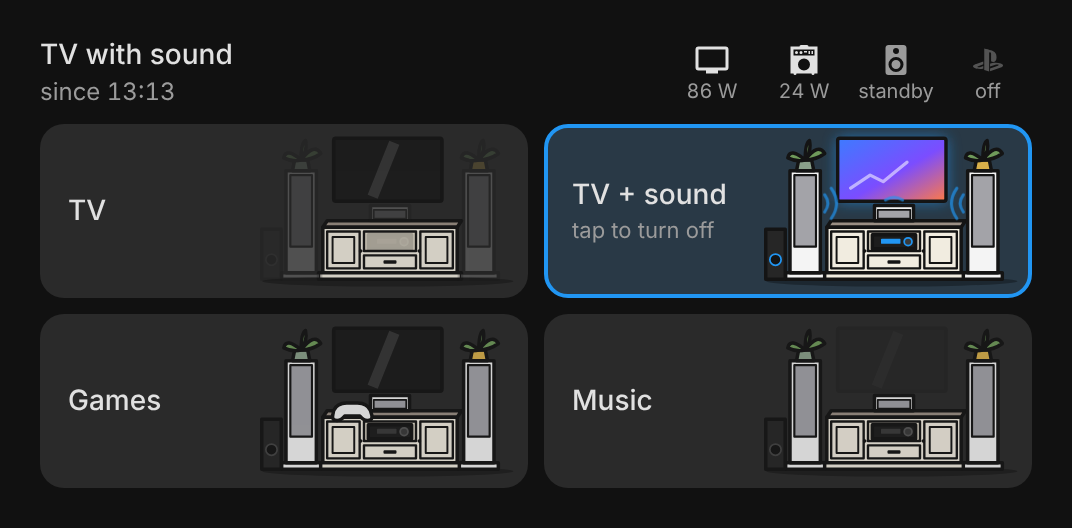
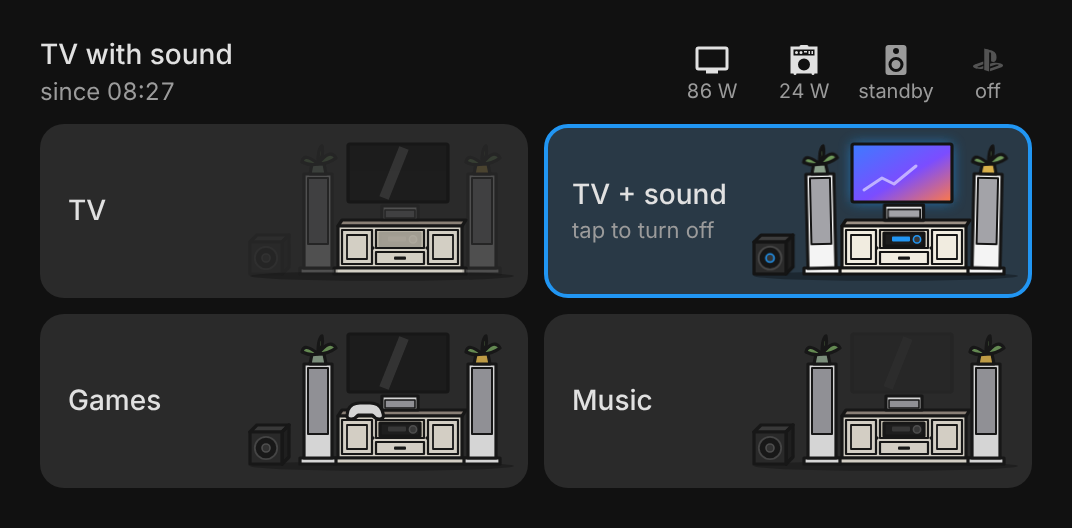
v0.1.1: subwoofer on the floor, speakers move while playing
Claude-Session: https://claude.ai/code/session_017BEvUrExFR7bb8ADUjAeSX

diff --git a/media-wall-card.js b/media-wall-card.js
@@ -16,7 +16,7 @@
 // Everything sits in one block so the top-level names cannot clash with the
 // sister cards when the files are loaded as classic scripts.
 {
-const VERSION = "0.1.0";
+const VERSION = "0.1.1";
 
 const MW_GRACE_MS = 5000; // plugs may lag the mode this long before a mismatch shows
 const MW_FAIL_MS = 6000; // "Music: no response" shows this long
@@ -73,7 +73,7 @@ let mwUid = 0;
  * The owner's media wall as SVG markup, 118 x 72: wall mounted TV, cream
  * cabinet with a grey top, panel doors and the receiver in the open shelf,
  * centre speaker on top, two white towers with grey grilles and plants, the
- * sub at the far left. o = { tv, amp, sub, ps, lit, uid }: the devices this
+ * sub as a black cube on the floor at the far left. o = { tv, amp, sub, ps, lit, uid }: the devices this
  * mode uses are drawn in full, the others ghosted; lit = the mode is active
  * (or being switched to), so its devices light up in the active colour.
  */
@@ -82,14 +82,13 @@ function mwScene(o) {
   const C = "var(--mw-c)";
   const lit = o.lit;
   const part = (on, body) => `<g opacity="${on ? 1 : 0.22}">${body}</g>`;
-  const waves = (x, y, s) => (lit ? `<g class="wave" style="stroke:${C}" fill="none" stroke-width="1.4" stroke-linecap="round">
-    <path d="M${x} ${y - 4} q${3 * s} 4 0 8"/><path d="M${x + 3 * s} ${y - 7} q${5 * s} 7 0 14"/></g>` : "");
-  const tower = (x, pot) => `<g ${K}>
-    <rect x="${x - 2}" y="64" width="18" height="3" fill="#f4f4f4"/>
+  /* A tower: the plinth stays on the floor, the body (with the plant) sways from its foot while it plays. */
+  const tower = (x, pot, sway) => `<g ${K}><rect x="${x - 2}" y="64" width="18" height="3" fill="#f4f4f4"/></g>
+    <g class="${sway}"><g ${K}>
     <rect x="${x}" y="17" width="14" height="47" fill="#f4f4f4"/>
     <rect x="${x + 2}" y="19" width="10" height="33" fill="#a3a3a8" stroke-width="1"/></g>
     <g ${K} stroke-width="1.2"><path d="M${x + 3} 17 l1 -5 h6 l1 5 z" fill="${pot}"/>
-    <path d="M${x + 7} 12 q-7 -6 -8 -1 q4 2 8 1 z M${x + 7} 12 q6 -8 9 -3 q-4 3 -9 3 z M${x + 7} 12 q0 -8 2 -9 q1 5 -2 9 z" fill="#6f9a5a"/></g>`;
+    <path d="M${x + 7} 12 q-7 -6 -8 -1 q4 2 8 1 z M${x + 7} 12 q6 -8 9 -3 q-4 3 -9 3 z M${x + 7} 12 q0 -8 2 -9 q1 5 -2 9 z" fill="#6f9a5a"/></g></g>`;
   const id = `mw${o.uid}`;
   const tvLit = lit && o.tv;
   const tv = `<defs><linearGradient id="${id}g" x1="0" y1="0" x2="1" y2="1">
@@ -113,21 +112,25 @@ function mwScene(o) {
   const avr = `<g ${K} stroke-width="1.1"><rect x="50" y="46.5" width="20" height="6.5" fill="#1d1d1d"/></g>
     <rect x="54" y="48.3" width="9" height="2.4" rx=".4" style="fill:${ampLit ? C : "#3a3a3a"}"/>
     <circle cx="66.5" cy="49.7" r="1.8" fill="#3a3a3a" style="stroke:${ampLit ? C : "#555"}" stroke-width=".8"/>`;
-  const center = `<g ${K}><rect x="51" y="33" width="18" height="7" fill="#f4f4f4"/>
-    <rect x="52.5" y="35" width="15" height="4" fill="#a3a3a8" stroke-width=".8"/></g>
-    ${ampLit ? `<path class="wave" d="M56 30.5 q4 -2.5 8 0" fill="none" style="stroke:${C}" stroke-width="1.3" stroke-linecap="round"/>` : ""}`;
-  const towers = tower(12, "#8aa08a") + tower(94, "#d9b04a") + (ampLit ? waves(28, 32, 1) + waves(92, 32, -1) : "");
+  const center = `<g class="${ampLit ? "pump" : ""}"><g ${K}><rect x="51" y="33" width="18" height="7" fill="#f4f4f4"/>
+    <rect x="52.5" y="35" width="15" height="4" fill="#a3a3a8" stroke-width=".8"/></g></g>`;
+  const towers = tower(12, "#8aa08a", ampLit ? "sway l" : "") + tower(94, "#d9b04a", ampLit ? "sway r" : "");
   const subLit = lit && o.sub;
-  const sub = `<g ${K}><rect x="0.8" y="44" width="9" height="23" fill="#262626"/></g>
-    <circle cx="5.3" cy="58" r="2.6" fill="#141414" style="stroke:${subLit ? C : "#444"}" stroke-width=".8"/>`;
+  // The sub stands on the floor at the far left (outside the shifted scene), a black cube with a front driver.
+  const sub = `<g class="${subLit ? "jump" : ""}"><g ${K}>
+      <polygon points="1,51 17,51 20.5,47.5 4.5,47.5" fill="#3d3d3d"/>
+      <polygon points="17,51 20.5,47.5 20.5,63.5 17,67" fill="#1e1e1e"/>
+      <rect x="1" y="51" width="16" height="16" fill="#2a2a2a"/></g>
+      <g class="${subLit ? "cone" : ""}"><circle cx="9" cy="59" r="5.6" fill="#161616" stroke="#4a4a4a" stroke-width=".9"/>
+      <circle cx="9" cy="59" r="2" fill="#333" style="stroke:${subLit ? C : "#555"}" stroke-width=".8"/></g></g>`;
   const pad = o.ps ? `<g ${K} stroke-width="1.1"><path d="M34 40 q1.5 -3.5 6 -3.5 h5 q4.5 0 6 3.5 l.6 2 q.6 2.5 -2 2.5 q-2 0 -3.5 -2 h-7 q-1.5 2 -3.5 2 q-2.6 0 -2 -2.5 z" fill="#f4f4f4"/></g>
     ${lit ? `<rect x="40.5" y="37.5" width="4" height="1.2" rx=".6" style="fill:${C}"/>` : ""}` : "";
   const notes = ampLit && !o.tv ? `<g class="notes" style="fill:${C};stroke:${C}" stroke-width="1.4" stroke-linecap="round">
     <ellipse cx="50" cy="18" rx="2.6" ry="2" stroke="none"/><path d="M52.6 18 V7 l5 1.8" fill="none"/>
     <ellipse cx="65" cy="14" rx="2.3" ry="1.8" stroke="none"/><path d="M67.3 14 V4" fill="none"/></g>` : "";
-  return `<svg viewBox="0 0 118 72" xmlns="http://www.w3.org/2000/svg" aria-hidden="true">
-    <ellipse cx="59" cy="68" rx="58" ry="2.4" fill="#000" opacity=".3"/>
-    ${part(o.tv, tv)}${cabinet}${part(o.amp, avr)}${part(o.amp, center)}${part(o.amp, towers)}${part(o.sub, sub)}${pad}${notes}</svg>`;
+  return `<svg viewBox="0 0 134 72" xmlns="http://www.w3.org/2000/svg" aria-hidden="true">
+    <ellipse cx="67" cy="68" rx="66" ry="2.4" fill="#000" opacity=".3"/>
+    ${part(o.sub, sub)}<g transform="translate(16 0)">${part(o.tv, tv)}${cabinet}${part(o.amp, avr)}${part(o.amp, center)}${part(o.amp, towers)}${pad}${notes}</g></svg>`;
 }
 
 /* ------------------------------------------------------------------------ */
@@ -187,7 +190,7 @@ ${Object.values(MW_COLORS).map(([v, d]) => `    ${v}: ${d};`).join("\n")}
   .btn.act .tx b ha-icon, .btn.busy .tx b ha-icon { color: var(--mw-c); }
   .tx small { font-size: 11px; line-height: 13px; color: var(--secondary-text-color); white-space: nowrap; overflow: hidden; text-overflow: ellipsis; }
   .tx small:empty { display: none; }
-  .art { flex: none; align-self: center; height: min(100%, 78px); aspect-ratio: 118 / 72; padding-right: 4px; }
+  .art { flex: none; align-self: center; height: min(100%, 72px); aspect-ratio: 134 / 72; padding-right: 4px; }
   .art svg { width: 100%; height: 100%; display: block; overflow: visible; }
   .btn:not(.act):not(.busy) .art { opacity: .85; }
   .nopic .art { display: none; }
@@ -202,11 +205,23 @@ ${Object.values(MW_COLORS).map(([v, d]) => `    ${v}: ${d};`).join("\n")}
   }
   @container (max-height: 63px) and (max-width: 199px) { .art { display: none; } .tx { position: static; justify-content: center; } }
 
-  .wave { animation: mw-wave 1.6s ease-in-out infinite; }
-  @keyframes mw-wave { 50% { opacity: .35; } }
+  /* sound: the towers sway from their foot, the centre speaker leans in and out, the sub hops and its driver pumps, notes rise */
+  .sway { transform-box: fill-box; transform-origin: 50% 100%; animation: 1.4s ease-in-out infinite alternate; }
+  .sway.l { animation-name: mw-sway-l; }
+  .sway.r { animation-name: mw-sway-r; }
+  @keyframes mw-sway-l { from { transform: rotate(-2.2deg); } to { transform: rotate(2.2deg); } }
+  @keyframes mw-sway-r { from { transform: rotate(2.2deg); } to { transform: rotate(-2.2deg); } }
+  .pump { transform-box: fill-box; transform-origin: 50% 100%; animation: mw-pump .6s ease-in-out infinite alternate; }
+  @keyframes mw-pump { to { transform: scale(1.09); } }
+  .jump { transform-box: fill-box; transform-origin: 50% 100%; animation: mw-jump .5s ease-out infinite; }
+  @keyframes mw-jump { 0%, 45%, 100% { transform: translateY(0) scaleY(1); } 12% { transform: translateY(-1.3px) scaleY(1.02); } 28% { transform: translateY(0) scaleY(.97); } }
+  .cone { transform-box: fill-box; transform-origin: 50% 50%; animation: mw-cone .25s ease-in-out infinite alternate; }
+  @keyframes mw-cone { to { transform: scale(1.12); } }
+  .notes { animation: mw-notes 2.4s ease-in-out infinite; }
+  @keyframes mw-notes { 0% { transform: translateY(2px); opacity: .4; } 50% { opacity: 1; } 100% { transform: translateY(-2px); opacity: .4; } }
   @keyframes mw-pulse { 50% { opacity: .45; } }
   @media (prefers-reduced-motion: reduce) {
-    .wave, .btn.busy .tx small, .pw.busy { animation: none !important; }
+    .sway, .pump, .jump, .cone, .notes, .btn.busy .tx small, .pw.busy { animation: none !important; }
   }
 `;
 

diff --git a/tests/media-wall-card.test.js b/tests/media-wall-card.test.js
@@ -257,6 +257,16 @@ test("drawing: the mode's devices in full, the rest ghosted; lit only when activ
   assert(!render(states(), { picture: false })._el.btns[0].art.innerHTML);
 });
 
+test("motion only where the active mode plays sound", () => {
+  clock = NOW;
+  let art = render(states({ mode: "TVS" }))._el.btns.map((b) => b.art.innerHTML);
+  for (const c of ['class="sway l"', 'class="sway r"', 'class="pump"', 'class="jump"', 'class="cone"']) assert(art[1].includes(c), c);
+  assert(!/sway|pump|jump|cone/.test(art[0] + art[2] + art[3]), "inactive modes stand still");
+  assert(!art[1].includes("rip"), "no sound wave arcs");
+  art = render(states({ mode: "TV" }))._el.btns.map((b) => b.art.innerHTML);
+  assert(!/sway|pump|jump/.test(art[0]), "TV alone has no sound");
+});
+
 test("drawing is not rebuilt when nothing in it changes", () => {
   clock = NOW;
   const c = render(states());

diff --git a/CLAUDE.md b/CLAUDE.md
@@ -18,7 +18,7 @@ Marketplace (formerly HACS) dashboard card (Lovelace) for the living room audio 
 
 * Four Shelly plugs: `switch.tv_switch`, `switch.amplifier_switch` (Denon receiver, 5.1), `switch.subwoofer_switch`, `switch.playstation_switch`, each with a `sensor.*_power` (W).
 * `script.audio_management_lovelace` with `actionid`: TV, TVS, Games, Music, Movie (same as TVS), Off. If the mode is already active it switches everything off. It sets `input_text.audio_state`, also when automations switch everything off ("Go to bed", "Shutdown when away"). **Do not change the script from here.**
-* The media wall (from Bb's photo): wall mounted TV, cream cabinet with a grey top, two panel doors with diamond escutcheons, the Denon in the open middle shelf with a drawer below, white centre speaker on top, two white B&W towers with grey grilles (green pot left, gold pot right), black sub at the far left. Where the PlayStation stands is unknown; Games draws a controller on the cabinet.
+* The media wall (from Bb's photo): wall mounted TV, cream cabinet with a grey top, two panel doors with diamond escutcheons, the Denon in the open middle shelf with a drawer below, white centre speaker on top, two white B&W towers with grey grilles (green pot left, gold pot right), black sub at the far left (drawn as a cube on the floor, outside the shifted scene). Where the PlayStation stands is unknown; Games draws a controller on the cabinet.
 
 ## Rules to keep
 
@@ -26,10 +26,10 @@ Marketplace (formerly HACS) dashboard card (Lovelace) for the living room audio 
 * Tapping the active mode sends that mode again (the script turns it off). No confirmation dialogs.
 * Busy: the pressed button shows dashed until the state value changes or any plug switch changes; after `busy_timeout` it goes back and the line shows `<mode>: no response` for 6 s. Pressing the busy button again sends nothing.
 * Mismatches compare the plugs with the mode's `on` list, only 5 s after the state last changed and not while busy; unavailable plugs always count. First one plus `· +n` in the status line, in amber.
-* Layout: 12 × 4, 248 px, always two columns of buttons (a fifth mode spans the third row). Button container query: below 200 px width the label goes top left, the hint is hidden and the drawing sits bottom right at 58 px; below 64 px height the narrow drawing is hidden. Measure in a real browser (Playwright) at 360 and 520 px after any layout change; a stub `ha-card` must not set `display` inline.
+* Layout: 12 × 4, 248 px, always two columns of buttons (a fifth mode spans the third row). Button container query: below 200 px width the label goes top left, the hint is hidden and the drawing sits bottom right at 58 px; below 64 px height the narrow drawing is hidden. On desktop the drawing is at most 72 px high (134 × 72 viewBox), so labels like "TV + sound" fit next to it on a 244 px button. Measure in a real browser (Playwright) at 360 and 520 px after any layout change; a stub `ha-card` must not set `display` inline.
 * Drawing: line art (light surfaces, `#141414` outlines), ghosted parts at 0.22 opacity, lit parts in `--mw-c` (the mode's colour or `active`) via `style`, because SVG presentation attributes do not take `var()`. Rebuilt only when a button's lit state changes.
 * Visual editor (`MediaWallCardEditor`, on `ha-form`): fields show the defaults; only non-defaults are written; the four plug slots edit the plugs list, written only when it differs from the defaults; `modes` and unknown keys are kept. 
-* Animations (sound waves, busy pulse) stop under reduced motion.
+* Motion only in the active (or busy) mode with sound: towers sway ±2.2° from their foot (plinth stays put), centre speaker scales 9 % from its base, sub hops about 1.3 px and its driver pulses, notes float. No sound wave arcs (Bb dropped them). Busy pulse too. All stop under reduced motion.
 * The whole file sits in one block scope; `const VERSION` stays on its own line for the Release workflow.
 
 ## Releasing

diff --git a/README.md b/README.md
@@ -13,7 +13,7 @@ Made for modes that are power combinations of a few smart plugs (TV, receiver, s
 | Title | The mode: `TV with sound`, `All off`, or the raw value if the script set something the card does not know. `Unavailable` in amber when the state entity is |
 | Status line | `since 17:45` (when the mode last changed; `since Tue 17:45` earlier this week, `since Nov 4` before that), then what is going on: `switching to Music`, `turning off`, `Music: no response` (amber, for 6 s), then the first mismatch in amber with a count: `PS is off`, `TV is on · +1`, `Amp offline` |
 | Plug indicators | Icon and power per plug: `86 W`, `standby` (on but below `standby_below`), `off`, `on` (no power sensor), `n/a` with a red badge (unavailable). A plug that does not match the mode gets an amber outline |
-| Mode buttons | 2 × 2 (a fifth mode takes a full width third row). The active mode has a coloured border and tint and `tap to turn off`. The drawing shows the mode's devices in full and ghosts the rest; in the active mode they light up: TV picture (with ambient glow when sound is on), receiver display, sound waves from the speakers, the sub, the controller, music notes |
+| Mode buttons | 2 × 2 (a fifth mode takes a full width third row). The active mode has a coloured border and tint and `tap to turn off`. The drawing shows the mode's devices in full and ghosts the rest; in the active mode they light up and move: TV picture (with ambient glow when sound is on), receiver display, the towers sway from their foot, the centre speaker leans in and out, the sub hops and its driver pumps, the controller lights, music notes float. All motion stops under reduced motion |
 | While switching | The pressed button gets a dashed border and `switching…` until the state follows (or a plug changes). After `busy_timeout` seconds without a change it goes back and the line says `no response` |
 
 Mismatches: a plug that should be on for the mode but is off (`Amp is off`), or on but should be off (`TV is on`, also in All off). The card waits 5 seconds after a mode change before it compares, because the plugs follow the script one by one. Unavailable plugs are always flagged.
@@ -84,7 +84,7 @@ A `plugs` list replaces these. `switch` is required; `power: null` (or leaving i
 | `Music` | Music | Music | `[amp, sub]` |
 | `Movie` (with `movie: true`) | Movie | Movie | `[tv, amp, sub]` |
 
-`id` is the value the script sets in the state entity and gets as `actionid`. `on` lists the plugs that should be on in this mode: it drives the mismatch check and which devices the drawing shows (`tv` the TV, `amp` the receiver and speakers, `sub` the subwoofer, `ps` the controller). Each mode can have an `icon` (shown with `picture: false`) and a `color` for its highlight. A `modes` list replaces the defaults; it is edited in YAML (the visual editor keeps it). A full example is in [`media-wall-card.yaml`](media-wall-card.yaml).
+`id` is the value the script sets in the state entity and gets as `actionid`. `on` lists the plugs that should be on in this mode: it drives the mismatch check and which devices the drawing shows (`tv` the TV, `amp` the receiver and speakers, `sub` the subwoofer cube on the floor, `ps` the controller). Each mode can have an `icon` (shown with `picture: false`) and a `color` for its highlight. A `modes` list replaces the defaults; it is edited in YAML (the visual editor keeps it). A full example is in [`media-wall-card.yaml`](media-wall-card.yaml).
 
 ## Design decisions
 

diff --git a/CHANGELOG.md b/CHANGELOG.md
@@ -1,5 +1,11 @@
 # Changelog
 
+## v0.1.1
+
+- The subwoofer is now drawn as a black cube on the floor at the far left (it was a narrow strip at the edge).
+- The drawing moves while the active mode plays sound: the towers sway from their foot, the centre speaker leans in and out, the sub hops and its driver pumps. The sound wave arcs are gone. Everything stands still under reduced motion.
+- The drawing is a little lower on desktop (72 px instead of 78 px), so a label like "TV + sound" keeps its room next to the wider picture.
+
 ## v0.1.0
 
 First release.
